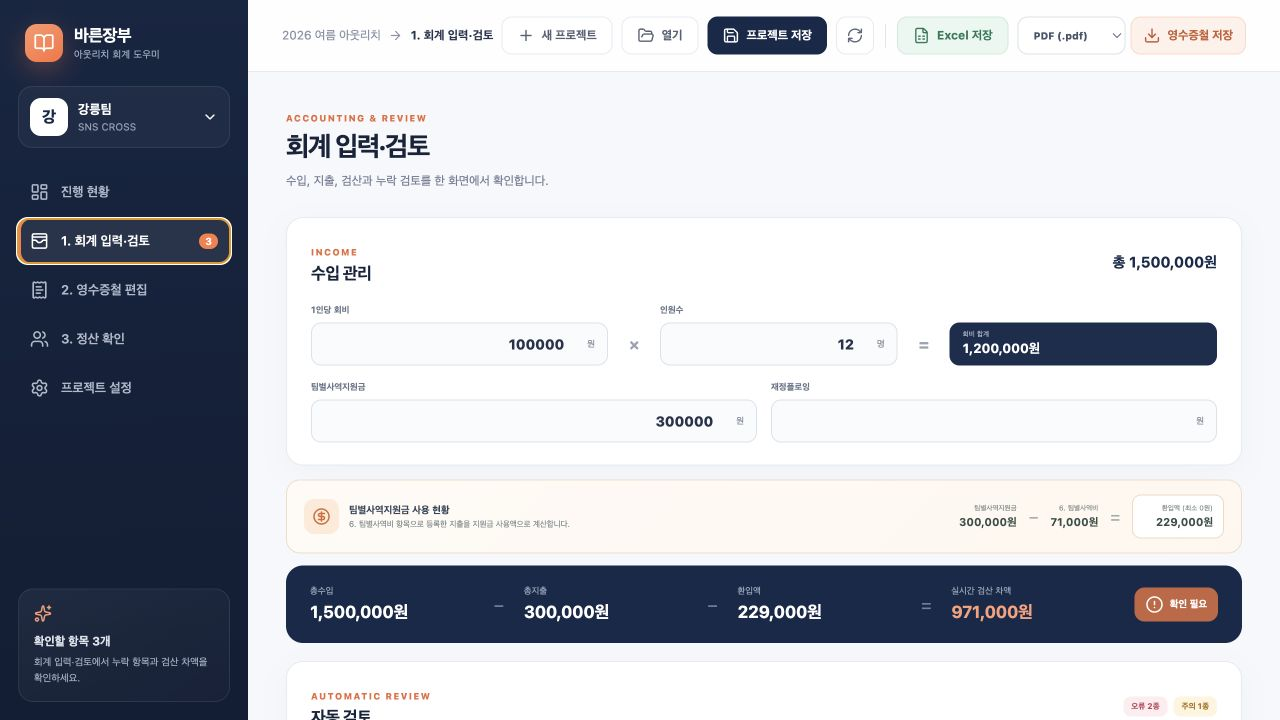
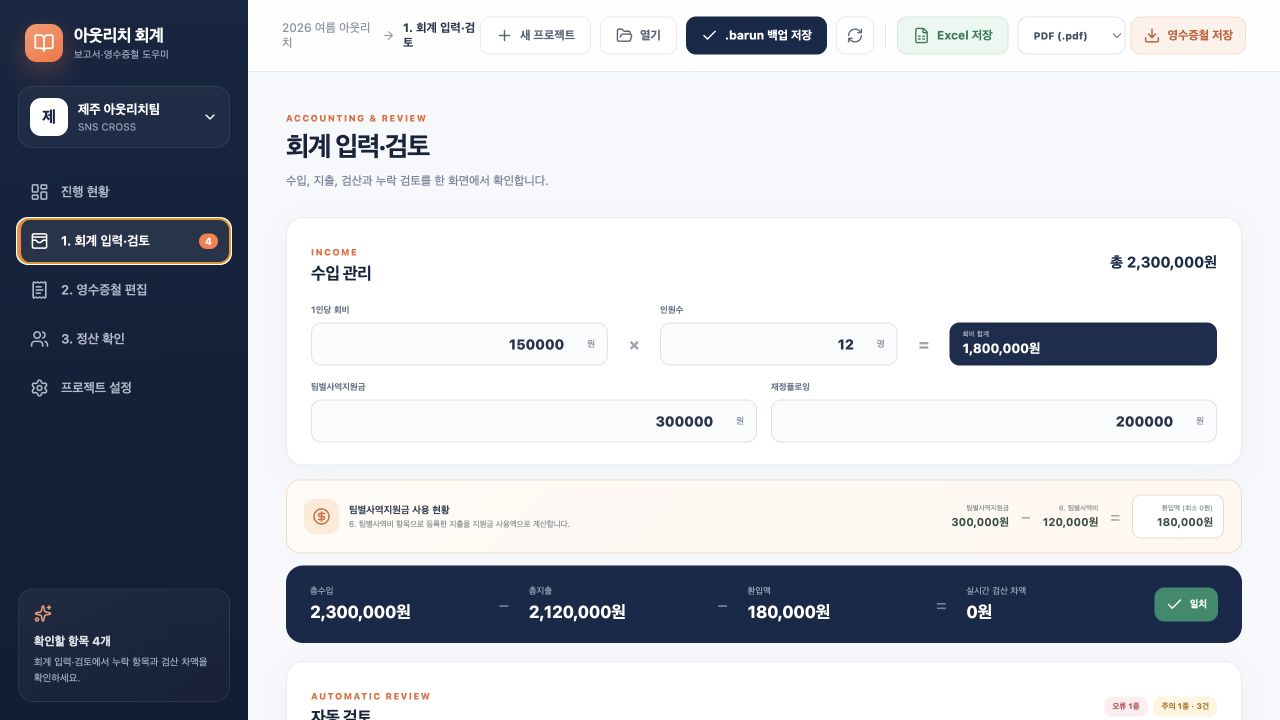
docs: refresh product screenshots

diff --git a/website/index.html b/website/index.html
@@ -193,21 +193,45 @@
       <section class="screens-section section-shell" id="screens">
         <div class="section-heading centered">
           <span class="eyebrow">APP PREVIEW</span>
-          <h2>필요한 정보는 넓고 명확하게</h2>
-          <p>화면을 선택하면 크게 볼 수 있습니다.</p>
+          <h2>실제 회계 흐름을 화면으로 확인하세요</h2>
+          <p>SNS CROSS 제주 아웃리치팀의 가상 자료로 주요 기능을 직접 사용해 구성했습니다. 화면을 선택하면 크게 볼 수 있습니다.</p>
         </div>
         <div class="screens-grid">
           <button class="screenshot-card wide" data-image="./assets/app-overview.png" data-alt="진행 현황 화면 크게 보기">
             <img src="./assets/app-overview.png" alt="수입, 지출, 차액과 진행 순서를 보여주는 진행 현황 화면" />
-            <span><b>진행 현황</b><small>다음에 할 일을 한눈에</small></span>
+            <span><b>진행 현황</b><small>10건의 지출·검산 차액·항목별 합계를 한눈에</small></span>
           </button>
           <button class="screenshot-card" data-image="./assets/app-accounting.png" data-alt="회계 입력 검토 화면 크게 보기">
             <img src="./assets/app-accounting.png" alt="수입과 실시간 검산을 함께 보여주는 회계 입력 검토 화면" />
-            <span><b>회계 입력·검토</b><small>입력과 검산을 같은 화면에서</small></span>
+            <span><b>수입과 실시간 검산</b><small>회비 × 인원, 지원금·환입액까지 즉시 계산</small></span>
+          </button>
+          <button class="screenshot-card" data-image="./assets/app-expenses.png" data-alt="지출 내역 화면 크게 보기">
+            <img src="./assets/app-expenses.png" alt="항목별 날짜순 지출과 영수증 번호, 내부 정산을 보여주는 지출 내역 화면" />
+            <span><b>날짜순 지출 내역</b><small>항목 필터·영수증 번호·증빙·내부 정산</small></span>
+          </button>
+          <button class="screenshot-card wide" data-image="./assets/app-expense-edit.png" data-alt="영수증 대조 입력 화면 크게 보기">
+            <img src="./assets/app-expense-edit.png" alt="온라인 영수증을 왼쪽에서 보며 날짜, 내용, 금액과 세부 품목을 수정하는 화면" />
+            <span><b>영수증을 보며 지출 입력</b><small>이미지 확대와 입력·검산을 하나의 편집 화면에서</small></span>
           </button>
           <button class="screenshot-card" data-image="./assets/app-receipts.png" data-alt="영수증철 편집 화면 크게 보기">
-            <img src="./assets/app-receipts.png" alt="영수증 그림과 실물 부착 공간을 배치하는 영수증철 편집 화면" />
-            <span><b>영수증철 편집</b><small>그림처럼 직접 보고 편집</small></span>
+            <img src="./assets/app-receipts.png" alt="공통 주유비 증빙과 온라인 영수증을 자동 배치한 영수증철 편집 화면" />
+            <span><b>영수증철 자동 배치</b><small>공통 주유비 증빙부터 항목별 새 페이지까지</small></span>
+          </button>
+          <button class="screenshot-card" data-image="./assets/app-receipt-tools.png" data-alt="영수증 선택 도구 화면 크게 보기">
+            <img src="./assets/app-receipt-tools.png" alt="영수증 이미지를 선택해 크기, 회전, 자르기와 지출 명세를 조절하는 화면" />
+            <span><b>그림 선택·크기 조절</b><small>핸들·회전·원본 비율 복원·지출 명세</small></span>
+          </button>
+          <button class="screenshot-card" data-image="./assets/app-receipt-crop.png" data-alt="영수증 자르기 화면 크게 보기">
+            <img src="./assets/app-receipt-crop.png" alt="워드프로세서처럼 영수증 이미지의 보이는 영역을 직접 자르는 화면" />
+            <span><b>워드식 이미지 자르기</b><small>프레임은 유지하고 보이는 영역과 위치를 직접 조정</small></span>
+          </button>
+          <button class="screenshot-card" data-image="./assets/app-receipt-preview.png" data-alt="영수증철 미리보기 화면 크게 보기">
+            <img src="./assets/app-receipt-preview.png" alt="편집용 라벨을 제외한 PDF 영수증철 결과를 확인하는 미리보기 화면" />
+            <span><b>PDF·Word 미리보기</b><small>편집 라벨이 빠진 실제 내보내기 결과 확인</small></span>
+          </button>
+          <button class="screenshot-card wide" data-image="./assets/app-settlement.png" data-alt="개인 정산 화면 크게 보기">
+            <img src="./assets/app-settlement.png" alt="개인 선결제자별 정산 대상액, 완료액과 남은 금액을 보여주는 정산 화면" />
+            <span><b>사람별 개인 정산</b><small>선결제 합계·부분 정산·완료 상태를 내부 정보로 관리</small></span>
           </button>
         </div>
       </section>

diff --git a/website/guide.html b/website/guide.html
@@ -132,6 +132,10 @@
 
           <section class="guide-step" id="income">
             <header><span class="step-number">2</span><div><small>ENTER INCOME</small><h2>수입을 먼저 입력하세요</h2><p>회계 입력·검토 화면 맨 위에서 사용할 수 있는 전체 재정을 만듭니다.</p></div></header>
+            <figure class="guide-shot guide-shot-wide">
+              <img src="./assets/app-accounting.png" alt="SNS CROSS 샘플 프로젝트에서 회비, 지원금, 플로잉과 실시간 검산 차액을 보여주는 화면" />
+              <figcaption><b>수입과 검산을 같은 화면에서</b><span>회비 150,000원 × 12명, 팀별사역지원금, 환입액과 0원 차액이 실시간으로 연결됩니다.</span></figcaption>
+            </figure>
             <div class="formula-card">
               <div><small>팀 회비</small><strong>1인당 회비 × 우리 팀 인원</strong></div>
               <i>＋</i>
@@ -155,7 +159,7 @@
           <section class="guide-step" id="expense">
             <header><span class="step-number">3</span><div><small>ONE RECEIPT AT A TIME</small><h2>영수증을 보면서 지출을 한 건씩 등록하세요</h2><p>금전출납부의 기본 원칙은 영수증 1개당 지출 1줄입니다.</p></div></header>
             <div class="screen-guide reverse">
-              <img src="./assets/app-accounting.png" alt="수입, 지출, 자동 검토가 함께 보이는 회계 입력 화면" />
+              <img src="./assets/app-expense-edit.png" alt="가상 온라인 영수증을 왼쪽에서 보며 날짜, 내용, 금액과 세부 품목을 수정하는 화면" />
               <div>
                 <ol class="numbered-actions">
                   <li><span>1</span><div><b>표의 + 또는 지출 등록</b><p>이미 등록한 행을 누르면 같은 편집 화면이 열립니다.</p></div></li>
@@ -164,6 +168,10 @@
                 </ol>
               </div>
             </div>
+            <figure class="guide-shot guide-shot-wide">
+              <img src="./assets/app-expenses.png" alt="교통비부터 잡비까지 항목별 날짜순으로 정리된 샘플 지출 내역 화면" />
+              <figcaption><b>저장하면 항목별·날짜순으로 자동 정리</b><span>영수증 번호, 실물·온라인 증빙, 앱 내부 정산 상태를 표에서 바로 확인하고 행을 눌러 수정합니다.</span></figcaption>
+            </figure>
             <div class="field-explainer">
               <article><span>내용</span><h3>무엇을 왜 샀는지</h3><p>금전출납부의 대표 설명입니다.</p><code>[식대간식비] 첫날 저녁 식사</code></article>
               <article><span>세부 품목</span><h3>영수증에 찍힌 상세 내역</h3><p>품목·수량·대상 등 검수에 필요한 정보입니다.</p><code>29명 · 김밥 29줄 · 생수 2박스</code></article>
@@ -211,6 +219,10 @@
 
           <section class="guide-step" id="review">
             <header><span class="step-number">4</span><div><small>RECONCILE AS YOU GO</small><h2>지출을 입력하면서 차액을 바로 확인하세요</h2><p>자동 검토는 같은 종류의 누락을 모아 보여주므로 경고 제목과 대상 영수증 번호를 함께 봅니다.</p></div></header>
+            <figure class="guide-shot guide-shot-wide">
+              <img src="./assets/app-expenses.png" alt="자동 검토 요약과 항목별 날짜순 지출표가 함께 보이는 회계 입력 검토 화면" />
+              <figcaption><b>같은 경고는 건별로 늘어놓지 않고 요약</b><span>확인할 대상 영수증 번호와 건수를 보고, 바로 아래 지출표에서 해당 행을 열 수 있습니다.</span></figcaption>
+            </figure>
             <div class="reconcile-explanation">
               <div><span>총수입</span><b>회비 + 지원금 + 플로잉</b></div><i>−</i><div><span>총지출</span><b>8개 항목 지출 합계</b></div><i>−</i><div><span>환입액</span><b>남은 지원금</b></div><i>＝</i><div class="balanced"><span>차액</span><b>0원</b></div>
             </div>
@@ -236,6 +248,20 @@
                 </ol>
               </div>
             </div>
+            <div class="guide-shot-grid">
+              <figure class="guide-shot">
+                <img src="./assets/app-receipt-tools.png" alt="선택된 영수증과 크기 조절 핸들, 플로팅 편집 도구를 보여주는 화면" />
+                <figcaption><b>선택·크기 조절</b><span>이미지를 선택하면 크기 핸들과 지출 명세·자르기·회전 도구가 그림 가까이에 나타납니다.</span></figcaption>
+              </figure>
+              <figure class="guide-shot">
+                <img src="./assets/app-receipt-crop.png" alt="검은 자르기 핸들로 영수증 이미지의 표시 영역을 조절하는 화면" />
+                <figcaption><b>워드식 자르기</b><span>프레임의 반대편은 움직이지 않고 선택한 변만 줄이며, 그림을 끌어 프레임 안 위치를 맞춥니다.</span></figcaption>
+              </figure>
+              <figure class="guide-shot guide-shot-wide-grid">
+                <img src="./assets/app-receipt-preview.png" alt="편집용 워터마크가 제외된 PDF 영수증철 미리보기 화면" />
+                <figcaption><b>내보내기 미리보기</b><span>편집용 라벨과 cm 표시는 빠지고, 온라인 증빙과 실물 영수증 부착 영역이 실제 저장될 형태로 보입니다.</span></figcaption>
+              </figure>
+            </div>
             <ul class="guide-list receipt-rules">
               <li><b>편집용 큰 라벨·cm 표시는</b> PDF·Word에 포함되지 않습니다.</li>
               <li><b>실물 부착칸의 지출 라벨은</b> 출력물에도 남아 어느 영수증을 붙일지 알려줍니다.</li>
@@ -251,6 +277,10 @@
 
           <section class="guide-step" id="settlement">
             <header><span class="step-number">6</span><div><small>INTERNAL SETTLEMENT</small><h2>개인 선결제 금액을 사람별로 정산하세요</h2><p>누가 먼저 냈는지는 편의를 위한 내부 정보이며 공식 금전출납부와 영수증철에는 나타나지 않습니다.</p></div></header>
+            <figure class="guide-shot guide-shot-wide">
+              <img src="./assets/app-settlement.png" alt="세 사람의 선결제 합계, 부분 정산과 완료 상태를 보여주는 개인 정산 화면" />
+              <figcaption><b>결제자를 따로 미리 만들 필요가 없습니다</b><span>지출에서 이름을 적으면 사람별 합계가 생기고, 미정산·부분 정산·완료 금액을 자동으로 대조합니다.</span></figcaption>
+            </figure>
             <ol class="horizontal-flow">
               <li><span>1</span><b>지출에서 개인 선결제 선택</b></li>
               <li><span>2</span><b>결제자 이름 입력</b></li>

diff --git a/website/guide.css b/website/guide.css
@@ -69,6 +69,15 @@
 .screen-guide.reverse { grid-template-columns: .92fr 1.08fr; }
 .screen-guide.reverse img { order: 2; }
 .screen-guide img { border: 1px solid #dce1ea; border-radius: 15px; box-shadow: 0 13px 35px rgba(25,39,65,.11); }
+.guide-shot { margin: 24px 0 0; overflow: hidden; border: 1px solid #dce1ea; border-radius: 17px; background: #f8f9fb; box-shadow: 0 13px 35px rgba(25,39,65,.08); }
+.guide-shot img { width: 100%; display: block; aspect-ratio: 16 / 9; object-fit: cover; border-bottom: 1px solid #dce1ea; }
+.guide-shot figcaption { padding: 16px 18px; display: grid; gap: 4px; }
+.guide-shot figcaption b { color: #263550; font-size: 12px; }
+.guide-shot figcaption span { color: var(--muted); font-size: 10px; line-height: 1.65; }
+.guide-shot-wide { margin-bottom: 24px; }
+.guide-shot-grid { margin-top: 25px; display: grid; grid-template-columns: repeat(2, minmax(0, 1fr)); gap: 14px; }
+.guide-shot-grid .guide-shot { margin: 0; }
+.guide-shot-wide-grid { grid-column: 1 / -1; }
 .numbered-actions { padding: 0; margin: 0; display: grid; gap: 16px; list-style: none; }
 .numbered-actions li { display: flex; gap: 11px; }
 .numbered-actions li > span { width: 26px; height: 26px; flex: 0 0 auto; display: grid; place-items: center; color: white; background: var(--navy); border-radius: 8px; font-size: 10px; font-weight: 900; }
@@ -161,6 +170,8 @@
   .do-first-grid, .output-cards { grid-template-columns: 1fr; }
   .screen-guide, .screen-guide.reverse { grid-template-columns: 1fr; }
   .screen-guide.reverse img { order: 0; }
+  .guide-shot-grid { grid-template-columns: 1fr; }
+  .guide-shot-wide-grid { grid-column: auto; }
   .formula-card, .reconcile-explanation { grid-template-columns: 1fr; }
   .formula-card > i, .reconcile-explanation > i { text-align: center; }
   .horizontal-flow { grid-template-columns: repeat(2, 1fr); }